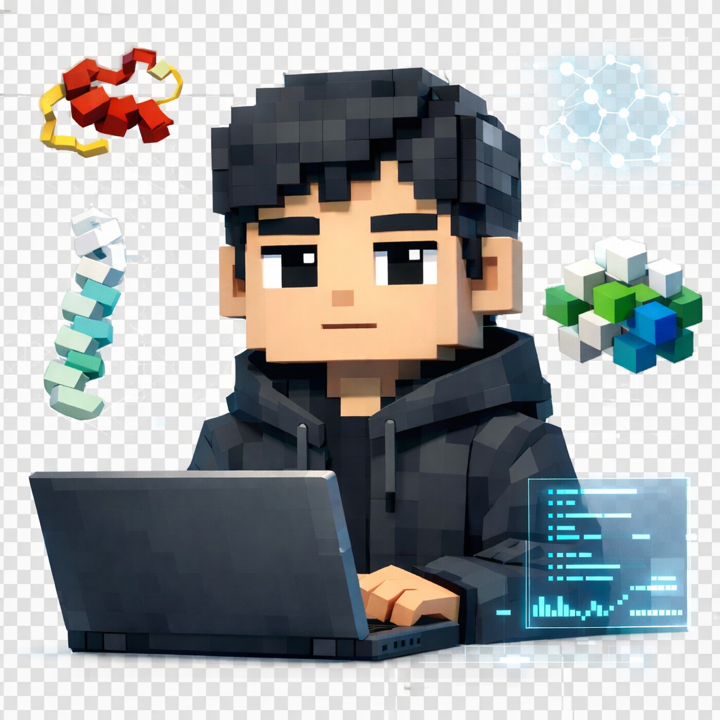
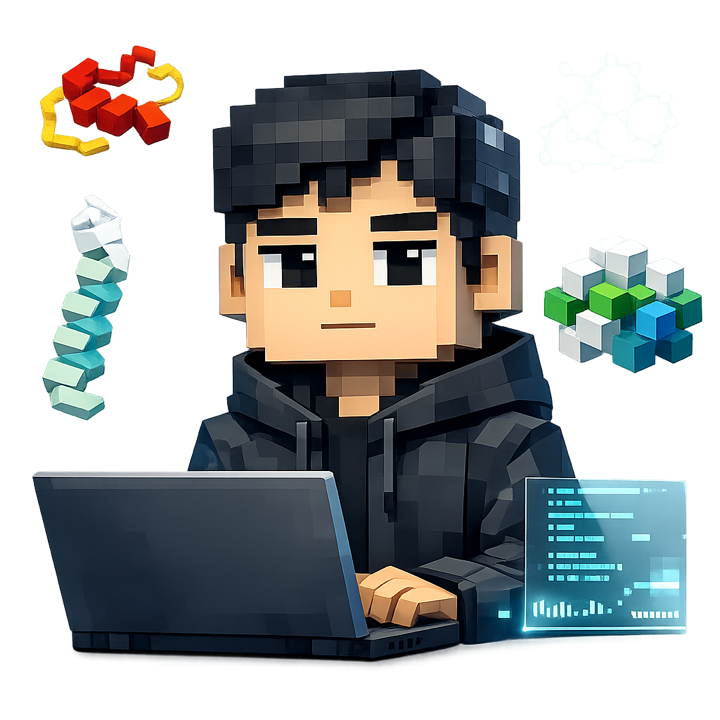
Refine portrait card scaling and reflections

diff --git a/styles/main.css b/styles/main.css
@@ -240,10 +240,9 @@ a:hover {
   inset: 0;
   z-index: 2;
   background:
-    linear-gradient(118deg, rgba(255, 255, 255, 0.24), rgba(255, 255, 255, 0.03) 34%, rgba(255, 255, 255, 0.1) 58%, rgba(255, 255, 255, 0.03)),
-    linear-gradient(rgba(181, 217, 255, 0.08) 1px, transparent 1px),
-    linear-gradient(90deg, rgba(181, 217, 255, 0.08) 1px, transparent 1px);
-  background-size: auto, 22px 22px, 22px 22px;
+    linear-gradient(118deg, rgba(255, 255, 255, 0.22), rgba(255, 255, 255, 0.02) 28%, rgba(255, 255, 255, 0.08) 52%, rgba(255, 255, 255, 0.02)),
+    linear-gradient(132deg, transparent 0 54%, rgba(255, 255, 255, 0.16) 58%, transparent 62%),
+    linear-gradient(132deg, transparent 0 68%, rgba(167, 228, 255, 0.1) 71%, transparent 74%);
   pointer-events: none;
 }
 
@@ -275,22 +274,21 @@ a:hover {
   position: relative;
   z-index: 1;
   display: block;
+  width: 100%;
+  height: 100%;
+  padding: 16px;
+  box-sizing: border-box;
+  object-fit: contain;
 }
 
 .profile-card-art--cartoon {
-  width: 100%;
-  height: 100%;
-  object-fit: cover;
   object-position: center center;
-  transform: scale(1.03);
-  filter: saturate(0.92) contrast(1.04) brightness(0.92);
+  filter: saturate(0.96) contrast(1.03) brightness(0.95);
 }
 
 .profile-card-art--photo {
-  width: 100%;
-  height: 100%;
-  object-fit: cover;
-  object-position: center 24%;
+  padding: 14px 14px 10px;
+  object-position: center bottom;
 }
 
 .hero-copy-body {

diff --git a/index.html b/index.html
@@ -8,7 +8,7 @@
       name="description"
       content="Layered personal research homepage of Haixi Zhao, focused on AI-guided protein design and computational biology."
     />
-    <link rel="stylesheet" href="styles/main.css?v=20260415d" />
+    <link rel="stylesheet" href="styles/main.css?v=20260415e" />
   </head>
   <body>
     <canvas id="site-bg-canvas" class="site-bg-canvas" aria-hidden="true"></canvas>
@@ -32,14 +32,14 @@
                 <div class="profile-flip-card__face profile-flip-card__face--front">
                   <img
                     class="profile-card-art profile-card-art--cartoon"
-                    src="assets/avatar-cartoon-card.png"
+                    src="assets/avatar-cartoon-card.png?v=20260415b"
                     alt="Cartoon portrait of Haixi Zhao"
                   />
                 </div>
                 <div class="profile-flip-card__face profile-flip-card__face--back">
                   <img
                     class="profile-card-art profile-card-art--photo"
-                    src="assets/avatar-photo-card.png"
+                    src="assets/avatar-photo-card.png?v=20260415b"
                     alt="Portrait of Haixi Zhao"
                   />
                 </div>
